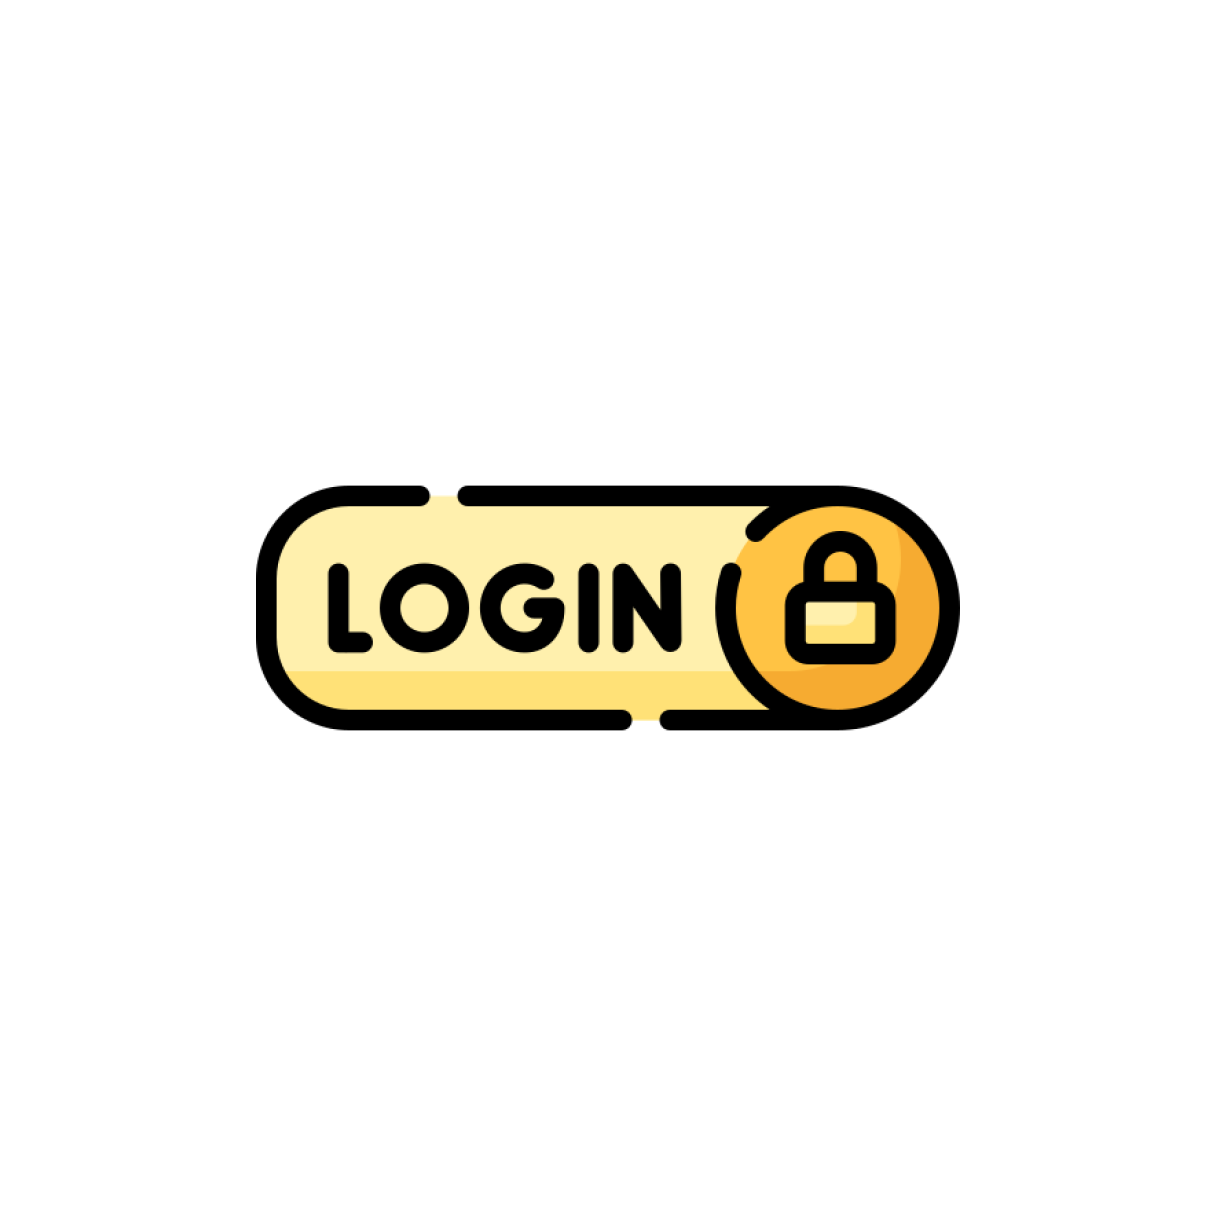
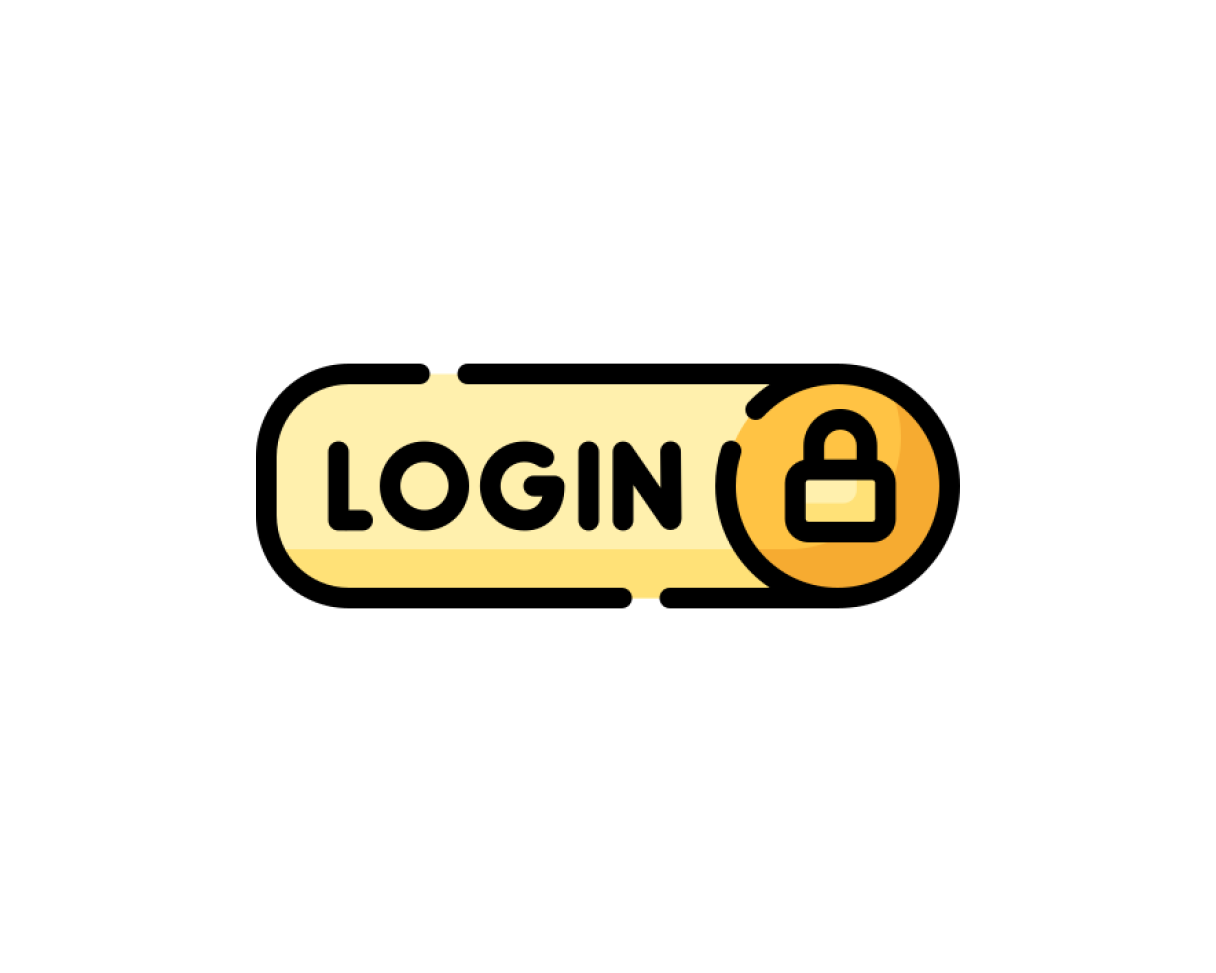
login and signup UI fixed

Changed region(s): [[0.1875, 0.37, 0.7812, 0.6475]]

diff --git a/src/views/SignupPage.tsx b/src/views/SignupPage.tsx
@@ -2,15 +2,16 @@ import { SubmitHandler, useForm } from "react-hook-form";
 import { ISignUp } from "../interfaces/interfaces";
 import {
   Button,
+  FormControl,
   Grid,
   IconButton,
   InputAdornment,
+  InputLabel,
   MenuItem,
   Select,
   SelectChangeEvent,
   Stack,
-  TextField,
-  Typography,
+  TextField
 } from "@mui/material";
 import { useState } from "react";
 import { Visibility, VisibilityOff } from "@mui/icons-material";
@@ -20,6 +21,12 @@ import signUpSchema from "../validationSchemas/signUpSchema";
 import { setAppRole } from "../redux/slices/appStateSlice";
 import { useDispatch } from "react-redux";
 import { useNavigate } from "react-router-dom";
+import LocalPostOfficeTwoToneIcon from '@mui/icons-material/LocalPostOfficeTwoTone';
+import AccountCircleTwoToneIcon from '@mui/icons-material/AccountCircleTwoTone';
+import PhoneTwoToneIcon from '@mui/icons-material/PhoneTwoTone';
+import BusinessTwoToneIcon from '@mui/icons-material/BusinessTwoTone';
+import Diversity3TwoToneIcon from '@mui/icons-material/Diversity3TwoTone';
+import LockTwoToneIcon from '@mui/icons-material/LockTwoTone';
 
 const SignupPage = () => {
   const [showPassword, setShowPassword] = useState<boolean>(false);
@@ -63,57 +70,97 @@ const SignupPage = () => {
   };
 
   return (
-    <Stack alignItems={"center"} mt={4} spacing={8}>
-      <Typography variant="h2">Sign-Up</Typography>
+    <Stack alignItems={"center"} spacing={8}>
+      <img 
+        src={"src/assets/images/signup.png"}
+        style={{
+          marginTop:"10px",
+          height: "100px",
+          width: "100px",
+          objectFit: "contain",
+        }}></img>
       <form onSubmit={handleSubmit(formSubmit)}>
         <Stack spacing={4} alignItems={"center"}>
           <Grid container gridTemplateColumns={"50% 50%"} gap={10}>
-            <Stack spacing={2}>
-              <label htmlFor="name">Name</label>
+            <Stack spacing={4}>
+             
               <TextField
                 id="name"
-                required
                 placeholder="Name"
+                label="Name"
                 helperText={errors.username?.message}
                 {...register("username", { required: true })}
+                InputProps={{
+                  startAdornment: (
+                    <InputAdornment position="start">
+                      <AccountCircleTwoToneIcon  fontSize="small"/>
+                    </InputAdornment>
+                  ),
+                }}
               />
-              <label htmlFor="phone">Phone</label>
+             
               <TextField
                 id="phone"
-                required
                 placeholder="9876543210"
+                label="Phone"
                 helperText={errors.phone?.message}
                 {...register("phone", { required: true })}
+                InputProps={{
+                  startAdornment: (
+                    <InputAdornment position="start">
+                      <PhoneTwoToneIcon  fontSize="small"/>
+                    </InputAdornment>
+                  ),
+                }}
               />
-              <label htmlFor="company">Company</label>
+              
               <TextField
                 id="company"
-                required
-                placeholder="Infosys"
+                placeholder="XYZ International"
+                label="Company"
                 helperText={errors.company?.message}
                 {...register("company", { required: true })}
+                InputProps={{
+                  startAdornment: (
+                    <InputAdornment position="start">
+                      <BusinessTwoToneIcon  fontSize="small"/>
+                    </InputAdornment>
+                  ),
+                }}
               />
             </Stack>
-            <Stack spacing={2}>
-              <label htmlFor="email">Email</label>
+            <Stack spacing={4}>
+           
               <TextField
                 id="email"
-                required
                 placeholder="john.doe@email.com"
+                label="Email"
                 helperText={errors.email?.message}
                 {...register("email", { required: true })}
+                InputProps={{
+                  startAdornment: (
+                    <InputAdornment position="start">
+                      <LocalPostOfficeTwoToneIcon fontSize="small"/>
+                    </InputAdornment>
+                  ),
+                }}
               />
 
-              <label htmlFor="password">Password</label>
               <TextField
                 id="password"
                 helperText={errors.password?.message}
                 {...register("password", { required: true })}
                 type={showPassword ? "text" : "password"}
                 placeholder="************"
+                label="Password"
                 InputProps={{
+                  startAdornment:(
+                    <InputAdornment position="start">
+                      <LockTwoToneIcon fontSize="small"/>
+                    </InputAdornment>
+                  ),
                   endAdornment: (
-                    <InputAdornment position="end">
+                    <InputAdornment position="end" >
                       <IconButton
                         aria-label="toggle password visibility"
                         onClick={handleClickShowPassword}
@@ -125,22 +172,29 @@ const SignupPage = () => {
                   ),
                 }}
               />
-
-              <label htmlFor="role">Role</label>
+              <FormControl fullWidth>
+              <InputLabel id="demo-simple-select-label">Role</InputLabel>
               <Select
                 id="role"
-                value={role}
+                label="Role"
+                labelId="demo-simple-select-label"
                 {...register("role")}
                 onChange={handleChange}
+                startAdornment={
+                  <InputAdornment position="start">
+                    <Diversity3TwoToneIcon />
+                  </InputAdornment>
+                }
               >
                 <MenuItem value={"Admin"}>Admin</MenuItem>
                 <MenuItem value={"Shipper"}>Shipper</MenuItem>
                 <MenuItem value={"Carrier"}>Carrier</MenuItem>
               </Select>
+              </FormControl>
             </Stack>
           </Grid>
           <div style={{ width: "150px" }}>
-            <Button variant="contained" fullWidth type="submit">
+            <Button variant="contained"  fullWidth type="submit">
               Submit
             </Button>
           </div>

diff --git a/src/views/LoginPage.tsx b/src/views/LoginPage.tsx
@@ -19,6 +19,9 @@ import { yupResolver } from "@hookform/resolvers/yup";
 import loginSchema from "../validationSchemas/loginSchema";
 import { setAppRole } from "../redux/slices/appStateSlice";
 import { useNavigate } from "react-router-dom";
+import LockTwoToneIcon from '@mui/icons-material/LockTwoTone';
+import LocalPostOfficeTwoToneIcon from '@mui/icons-material/LocalPostOfficeTwoTone';
+
 
 const LoginPage = () => {
   const [showPassword, setShowPassword] = useState<boolean>(false);
@@ -60,11 +63,11 @@ const LoginPage = () => {
 
   return (
     <Grid
-      container
-      gridTemplateColumns={"45% 45%"}
-      p={"10% 7%"}
-      gap={"10%"}
-      alignItems={"center"}
+    container
+    gridTemplateColumns={"45% 45%"}
+    p={"3%"} 
+    gap={"3%"}
+    alignItems={"center"}
     >
       <img
         src={"src/assets/images/login.png"}
@@ -78,24 +81,36 @@ const LoginPage = () => {
         <FormProvider {...method}>
           <form onSubmit={handleSubmit(formSubmit)}>
             <Stack spacing={1.5} mb={2}>
-              <label htmlFor="email">Email</label>
               <TextField
-                id="email"
-                required
+                id="email"  
+                variant="outlined"
+                label="Email"
                 placeholder="john.doe@email.com"
                 helperText={errors.email?.message}
                 {...register("email", { required: true })}
+                InputProps={{
+                  startAdornment:(
+                    <InputAdornment position="start">
+                    <LocalPostOfficeTwoToneIcon  fontSize="small"/>
+                  </InputAdornment>
+                  ),
+                }}
               />
             </Stack>
             <Stack spacing={1.5} mb={2}>
-              <label htmlFor="password">Password</label>
               <TextField
                 id="password"
                 helperText={errors.password?.message}
                 {...register("password", { required: true })}
                 type={showPassword ? "text" : "password"}
                 placeholder="************"
+                label="Password"
                 InputProps={{
+                  startAdornment:(
+                    <InputAdornment position="start">
+                    <LockTwoToneIcon  fontSize="small"/>
+                  </InputAdornment>
+                  ),
                   endAdornment: (
                     <InputAdornment position="end">
                       <IconButton
@@ -110,22 +125,10 @@ const LoginPage = () => {
                 }}
               />
             </Stack>
-            <Stack spacing={1.5} mb={2}>
-              <label htmlFor="role">Role</label>
-              <Select
-                id="role"
-                value={role}
-                {...register("role")}
-                onChange={handleChange}
-              >
-                <MenuItem value={"Admin"}>Admin</MenuItem>
-                <MenuItem value={"Shipper"}>Shipper</MenuItem>
-                <MenuItem value={"Carrier"}>Carrier</MenuItem>
-              </Select>
-            </Stack>
+
             <div style={{ width: "150px" }}>
               <Button variant="contained" fullWidth type="submit">
-                Login
+                Continue
               </Button>
             </div>
           </form>

diff --git a/src/redux/slices/serviceSlice.tsx b/src/redux/slices/serviceSlice.tsx
@@ -1,5 +1,6 @@
 import { createApi, fetchBaseQuery } from "@reduxjs/toolkit/query/react";
 import { ILogin, ISignUp } from "../../interfaces/interfaces";
+import { log } from "console";
 
 const backendUrl = "http://localhost:3000/api/auth";
 if (!backendUrl) {
@@ -22,7 +23,7 @@ export const appApi = createApi({
           password: password,
           role: role,
         };
-
+        console.log("data",reqData);
         return {
           url: `/login`,
           method: "POST",

diff --git a/src/themes/components.ts b/src/themes/components.ts
@@ -14,7 +14,7 @@ const components = {
           color: "white", // Text color for outlined primary button
           borderColor: "white", // Border color for outlined primary button
           "&:hover": {
-            color: "#fd7014cc",
+            color: "#FFCD29",
           },
         },
       },

diff --git a/src/index.css b/src/index.css
@@ -15,5 +15,5 @@ body {
   background: url("assets/images/truck.png") no-repeat;
   background-size: contain;
   background-position: right;
-background-attachment: scroll;
+  background-attachment: scroll;
 }
